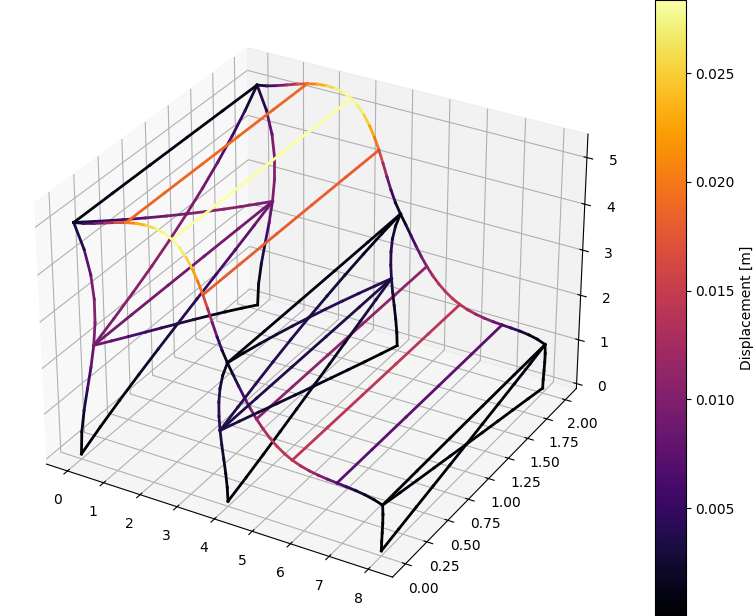
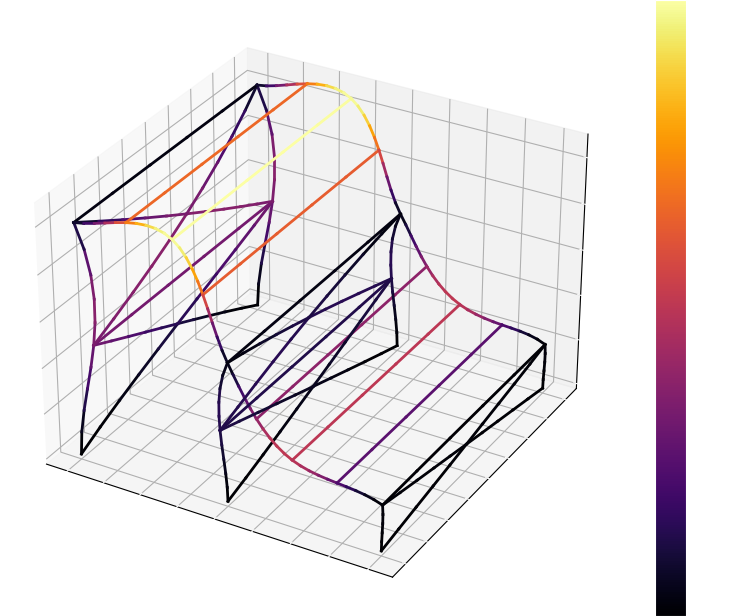
ok seems good

diff --git a/part1/Tools_part1.py b/part1/Tools_part1.py
@@ -25,72 +25,84 @@ def printData(nodes_list, elems_list, phys_data, geom_data):
     print("\n")
 
 
-def display(fig, ax, activation, nodes_list, elems_list, geom_data, save):
+def display(fig, ax, nodes_list, elems_list, geom_data, save, github):
+    # Nodes display
+    x_node = [node.pos[0] for node in nodes_list.values()]
+    y_node = [node.pos[1] for node in nodes_list.values()]
+    z_node = [node.pos[2] for node in nodes_list.values()]
 
-    if activation["plot"]:
-        # Nodes display
-        x_node = [node.pos[0] for node in nodes_list.values()]
-        y_node = [node.pos[1] for node in nodes_list.values()]
-        z_node = [node.pos[2] for node in nodes_list.values()]
+    # Flags to avoid multiple labels
+    label_clamped_shown = False
+    label_lumped_shown = False
 
-        # Flags to avoid multiple labels
-        label_clamped_shown = False
-        label_lumped_shown = False
-
-        for node in nodes_list.values():
-            if node.idx in geom_data["nodes_clamped"]:
-                if not label_clamped_shown:
-                    ax.scatter(node.pos[0], node.pos[1], node.pos[2], c="green", s=20, label="clamped", depthshade=True)
-                    label_clamped_shown = True
-                else:
-                    ax.scatter(node.pos[0], node.pos[1], node.pos[2], c="green", s=20, depthshade=True)
-
-            elif hasattr(node, 'M_lumped'):
-                if not label_lumped_shown:
-                    ax.scatter(node.pos[0], node.pos[1], node.pos[2], c="red", s=20, label="lumped", depthshade=True)
-                    label_lumped_shown = True
-                else:
-                    ax.scatter(node.pos[0], node.pos[1], node.pos[2], c="red", s=20, depthshade=True)
-
+    for node in nodes_list.values():
+        if node.idx in geom_data["nodes_clamped"]:
+            if not label_clamped_shown:
+                ax.scatter(node.pos[0], node.pos[1], node.pos[2], c="green", s=20, label="clamped", depthshade=True)
+                label_clamped_shown = True
             else:
-                ax.scatter(node.pos[0], node.pos[1], node.pos[2], c="blue", s=20, depthshade=True)
+                ax.scatter(node.pos[0], node.pos[1], node.pos[2], c="green", s=20, depthshade=True)
+        elif hasattr(node, 'M_lumped'):
+            if not label_lumped_shown:
+                ax.scatter(node.pos[0], node.pos[1], node.pos[2], c="red", s=20, label="lumped", depthshade=True)
+                label_lumped_shown = True
+            else:
+                ax.scatter(node.pos[0], node.pos[1], node.pos[2], c="red", s=20, depthshade=True)
+        else:
+            ax.scatter(node.pos[0], node.pos[1], node.pos[2], c="blue", s=20, depthshade=True)
 
-        # Annotate nodes with their index
-        for i, (x_val, y_val, z_val) in enumerate(zip(x_node, y_node, z_node)):
-            ax.text(x_val, y_val, z_val, f'{i}', fontsize=9, ha='center', color='black')
+    # Annotate nodes with their index
+    text_color = 'white' if github else 'black'
+    for i, (x_val, y_val, z_val) in enumerate(zip(x_node, y_node, z_node)):
+        ax.text(x_val, y_val, z_val, f'{i}', fontsize=9, ha='center', color=text_color)
 
-        # Beams (elements) display
-        for elem in elems_list:
-            idx_in = nodes_list[elem.nodes[0]].idx
-            idx_out = nodes_list[elem.nodes[1]].idx
+    # Beams (elements) display
+    for elem in elems_list:
+        idx_in = nodes_list[elem.nodes[0]].idx
+        idx_out = nodes_list[elem.nodes[1]].idx
+        x = [nodes_list[idx_in].pos[0], nodes_list[idx_out].pos[0]]
+        y = [nodes_list[idx_in].pos[1], nodes_list[idx_out].pos[1]]
+        z = [nodes_list[idx_in].pos[2], nodes_list[idx_out].pos[2]]
+        ax.plot(x, y, z, color="blue", linewidth=1.5, alpha=0.5)
 
-            x = [nodes_list[idx_in].pos[0], nodes_list[idx_out].pos[0]]
-            y = [nodes_list[idx_in].pos[1], nodes_list[idx_out].pos[1]]
-            z = [nodes_list[idx_in].pos[2], nodes_list[idx_out].pos[2]]
+    # Set plot labels and adjust for GitHub if needed
+    label_color = 'white' if github else 'black'
+    ax.set_xlabel("X-axis", fontsize=12, color=label_color)
+    ax.set_ylabel("Y-axis", fontsize=12, color=label_color)
+    ax.set_zlabel("Z-axis", fontsize=12, color=label_color)
 
-            ax.plot(x, y, z, color="blue", linewidth=1.5, alpha=0.5)
+    # Adjust the limits based on the node coordinates
+    ax.set_xlim([min(x_node) - 1, max(x_node) + 1])
+    ax.set_ylim([min(y_node) - 1, max(y_node) + 1])
+    ax.set_zlim([min(z_node) - 1, max(z_node) + 1])
 
-        # Set plot labels 
-        ax.set_xlabel("X-axis", fontsize=12)
-        ax.set_ylabel("Y-axis", fontsize=12)
-        ax.set_zlabel("Z-axis", fontsize=12)
+    # Set transparent background only if github is True
+    if github:
+        ax.set_facecolor('none')
+        fig.patch.set_alpha(0)
+    
+    ax.legend(loc="best")
+    ax.grid(color='gray', linestyle='--', linewidth=0.5, alpha=0.5)
 
-        # Adjust the limits based on the node coordinates
-        ax.set_xlim([min(x_node) - 1, max(x_node) + 1])
-        ax.set_ylim([min(y_node) - 1, max(y_node) + 1])
-        ax.set_zlim([min(z_node) - 1, max(z_node) + 1])
+    # Adjust tick colors for GitHub
+    if github:
+        ax.tick_params(axis='x', colors='white')
+        ax.tick_params(axis='y', colors='white')
+        ax.tick_params(axis='z', colors='white')
+        
+        # Change legend text color to white
+        legend = ax.get_legend()
+        for text in legend.get_texts():
+            text.set_color("white")
 
-        ax.set_facecolor('none') # transparent background
-
-        ax.legend(loc="best")
-        ax.grid(color='gray', linestyle='--', linewidth=0.5, alpha=0.5)
-
-        if save:
+    if save:
+        if github:
             plt.savefig('part1/Pictures/structure.png', transparent=True, bbox_inches='tight', pad_inches=0)
+        else:
             plt.savefig('part1/Pictures/structure.PDF')
 
 
-def plotModes(fig, ax, nodes_list, displacements, elems_list, nodes_clamped, save):
+def plotModes(fig, ax, nodes_list, displacements, elems_list, nodes_clamped, save, github):
     # Remove clamped index nodes
     unclamped_nodes_list = [x for x in nodes_list.keys() if x not in nodes_clamped]
     mask = np.arange(0, 6*len(unclamped_nodes_list), 1)
@@ -127,20 +139,45 @@ def plotModes(fig, ax, nodes_list, displacements, elems_list, nodes_clamped, sav
         else:
             norm_disp = 0
         color = color_map(norm_disp)
-
+        
         ax.plot(x, y, z, color=color, linewidth=2)
     
     # Add a color bar
     sm = plt.cm.ScalarMappable(cmap=color_map, norm=plt.Normalize(vmin=min_disp/coef, vmax=max_disp/coef))
     sm.set_array([])
-    fig.colorbar(sm, ax=ax, label='Displacement [m]')
-
-    ax.set_facecolor('none')
+    cbar = fig.colorbar(sm, ax=ax, label='Displacement [m]')
+    
+    # Set transparent background only if github is True
+    if github:
+        ax.set_facecolor('none')
+        fig.patch.set_alpha(0)
+    
+    # Adjust grid
     ax.grid(color='gray', linestyle='--', linewidth=0.5, alpha=0.5)
+    
+    # Set labels, ticks, and colorbar to white only if github is True
+    if github:
+        ax.set_xlabel('X [m]', color='white')
+        ax.set_ylabel('Y [m]', color='white')
+        ax.set_zlabel('Z [m]', color='white')
+        ax.tick_params(axis='x', colors='white')
+        ax.tick_params(axis='y', colors='white')
+        ax.tick_params(axis='z', colors='white')
+        
+        cbar.ax.yaxis.set_tick_params(color='white')
+        cbar.outline.set_edgecolor('white')
+        plt.setp(plt.getp(cbar.ax.axes, 'yticklabels'), color='white')
+        cbar.set_label('Displacement [m]', color='white')
+    else:
+        ax.set_xlabel('X [m]')
+        ax.set_ylabel('Y [m]')
+        ax.set_zlabel('Z [m]')
 
     if save:
-        plt.savefig('part1/Pictures/mode_shape.png', transparent=True, bbox_inches='tight', pad_inches=0)
-        plt.savefig('part1/Pictures/mode_shape.PDF')
+        if github:
+            plt.savefig('part1/Pictures/mode_shape.png', transparent=True, bbox_inches='tight', pad_inches=0)
+        else:
+            plt.savefig('part1/Pictures/mode_shape.PDF')
 
 
 

diff --git a/part1/main_part1.py b/part1/main_part1.py
@@ -14,7 +14,7 @@ def main():
     activation = {"print":True, "plot":True}
 
     geom_data, phys_data = setParams()
-    elem_per_beam = 5
+    elem_per_beam = 1
 
     # Define initial geometry
     nodes_list_init, nodes_pairs_init = initializeGeometry(geom_data, phys_data)
@@ -36,10 +36,8 @@ def main():
     fig = plt.figure(figsize=(10, 8), facecolor='none', edgecolor='none')
     ax = fig.add_subplot(projection='3d')
     
-    #display(fig, ax, activation, nodes_list, elems_list, geom_data, save=True)
-    plotModes(fig, ax, nodes_list, eigen_vectors[:,1], elems_list, geom_data["nodes_clamped"], save=True)
-    ax.set_facecolor('none')
-    ax.grid(color='gray', linestyle='--', linewidth=0.5, alpha=0.5)
+    display(fig, ax, nodes_list, elems_list, geom_data, save=True, github=True)
+    #plotModes(fig, ax, nodes_list, eigen_vectors[:,1], elems_list, geom_data["nodes_clamped"], save=True, github=True)
     plt.show()
 
 if __name__  == "__main__":
